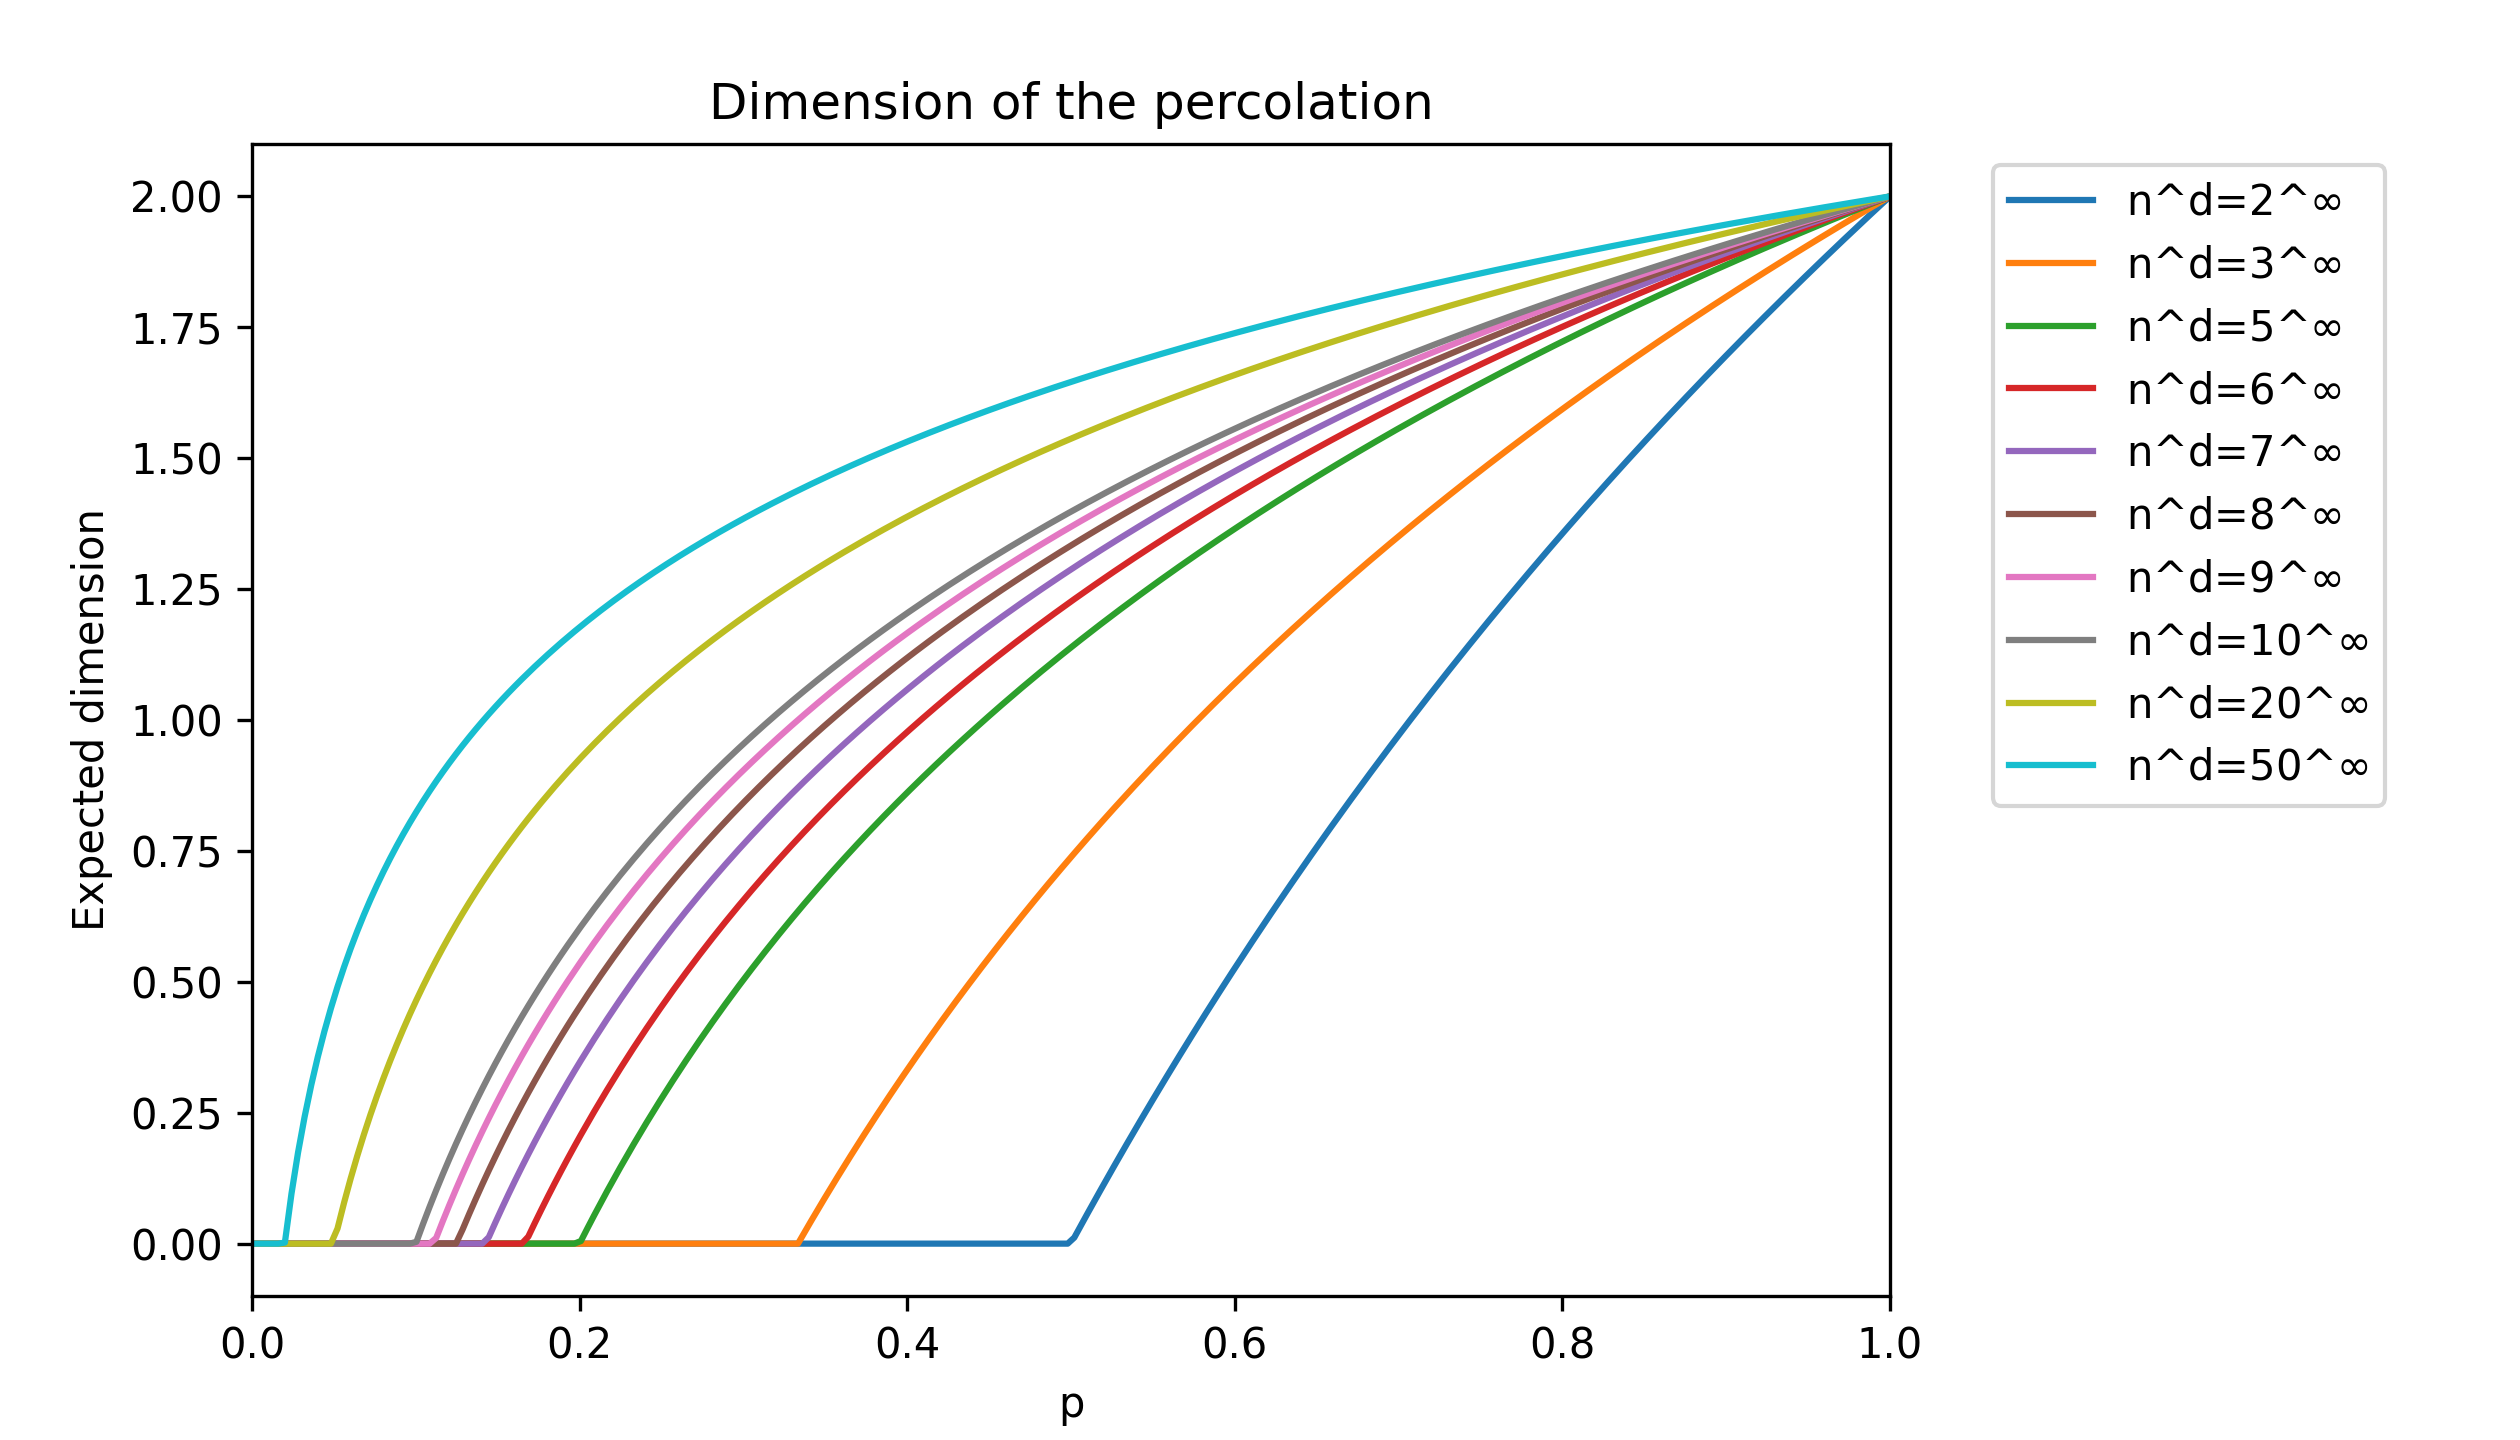
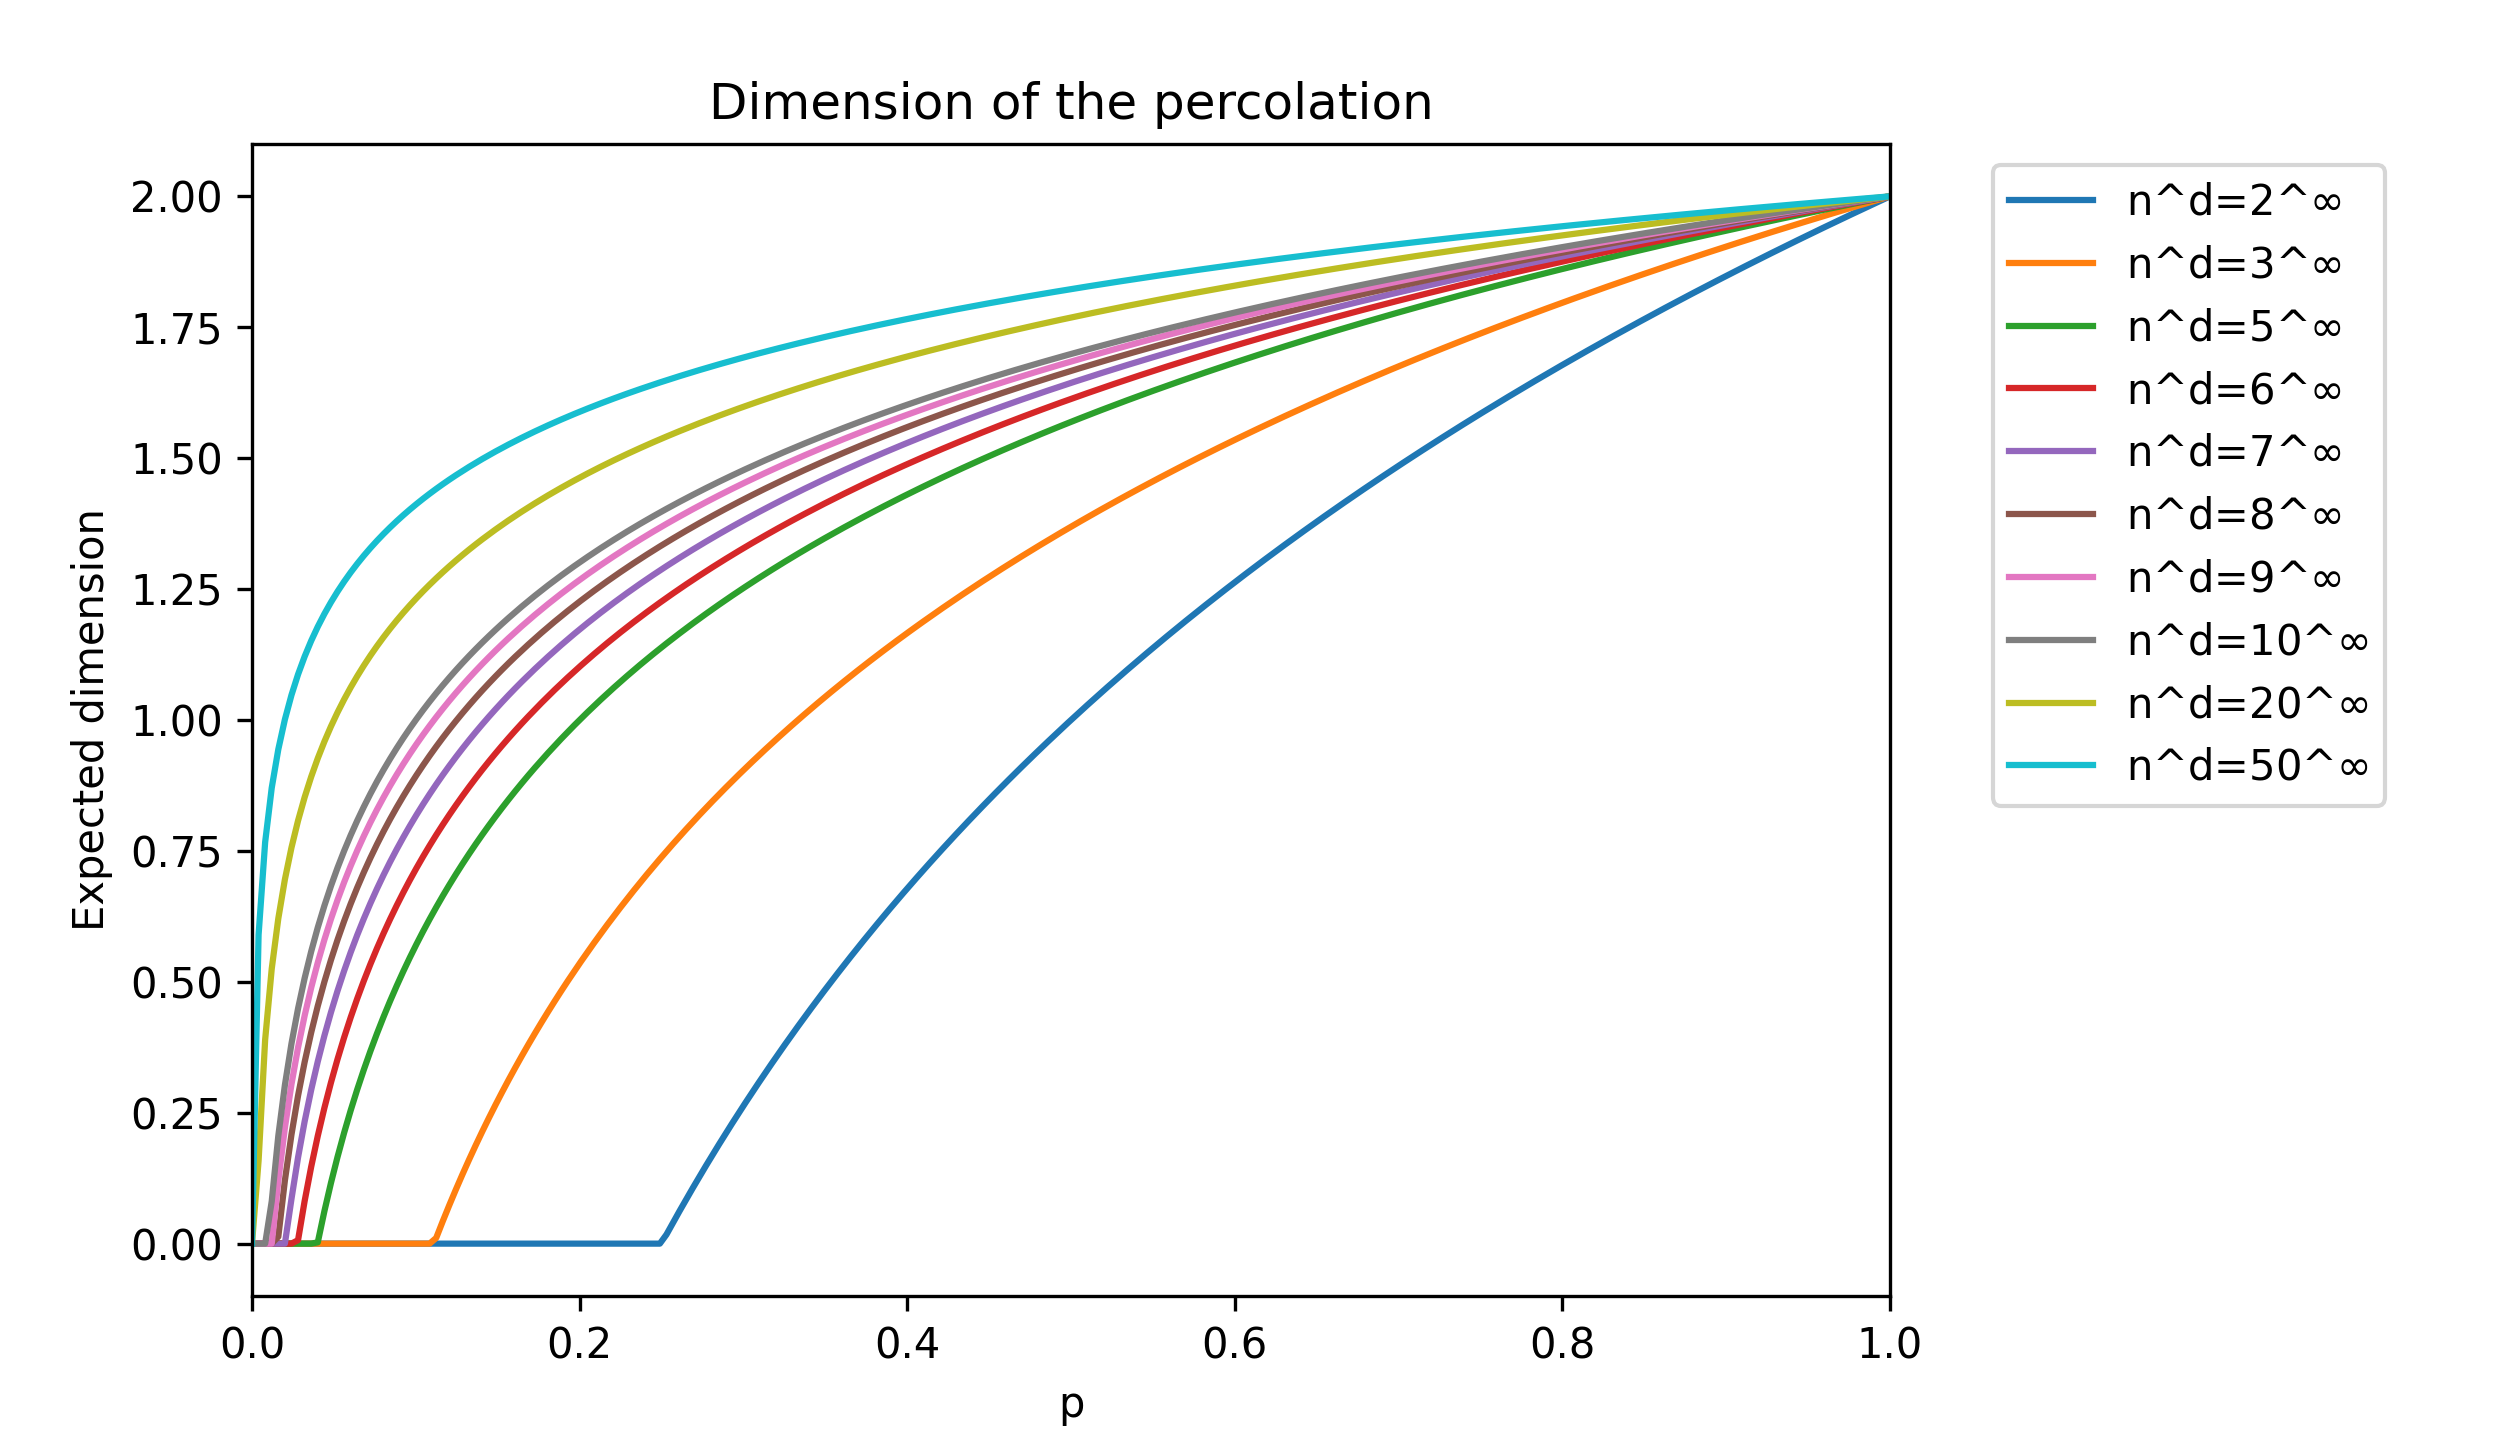
corrected typo in formula

diff --git a/data_visualization/dimension.py b/data_visualization/dimension.py
@@ -5,7 +5,7 @@ for D in range(1,6):
     plt.figure(figsize=[8.4, 4.8])
     def plot_dimension(n, c):
         p = np.linspace(0,1,250)
-        dim = np.maximum(D*(1 + (np.log(p)/np.log(n))), 0*p)
+        dim = np.maximum(D + (np.log(p)/np.log(n)), 0*p)
         
         plt.plot(p, dim, label='n^d='+str(n)+'^$\infty$', c='C'+str(c))
 
